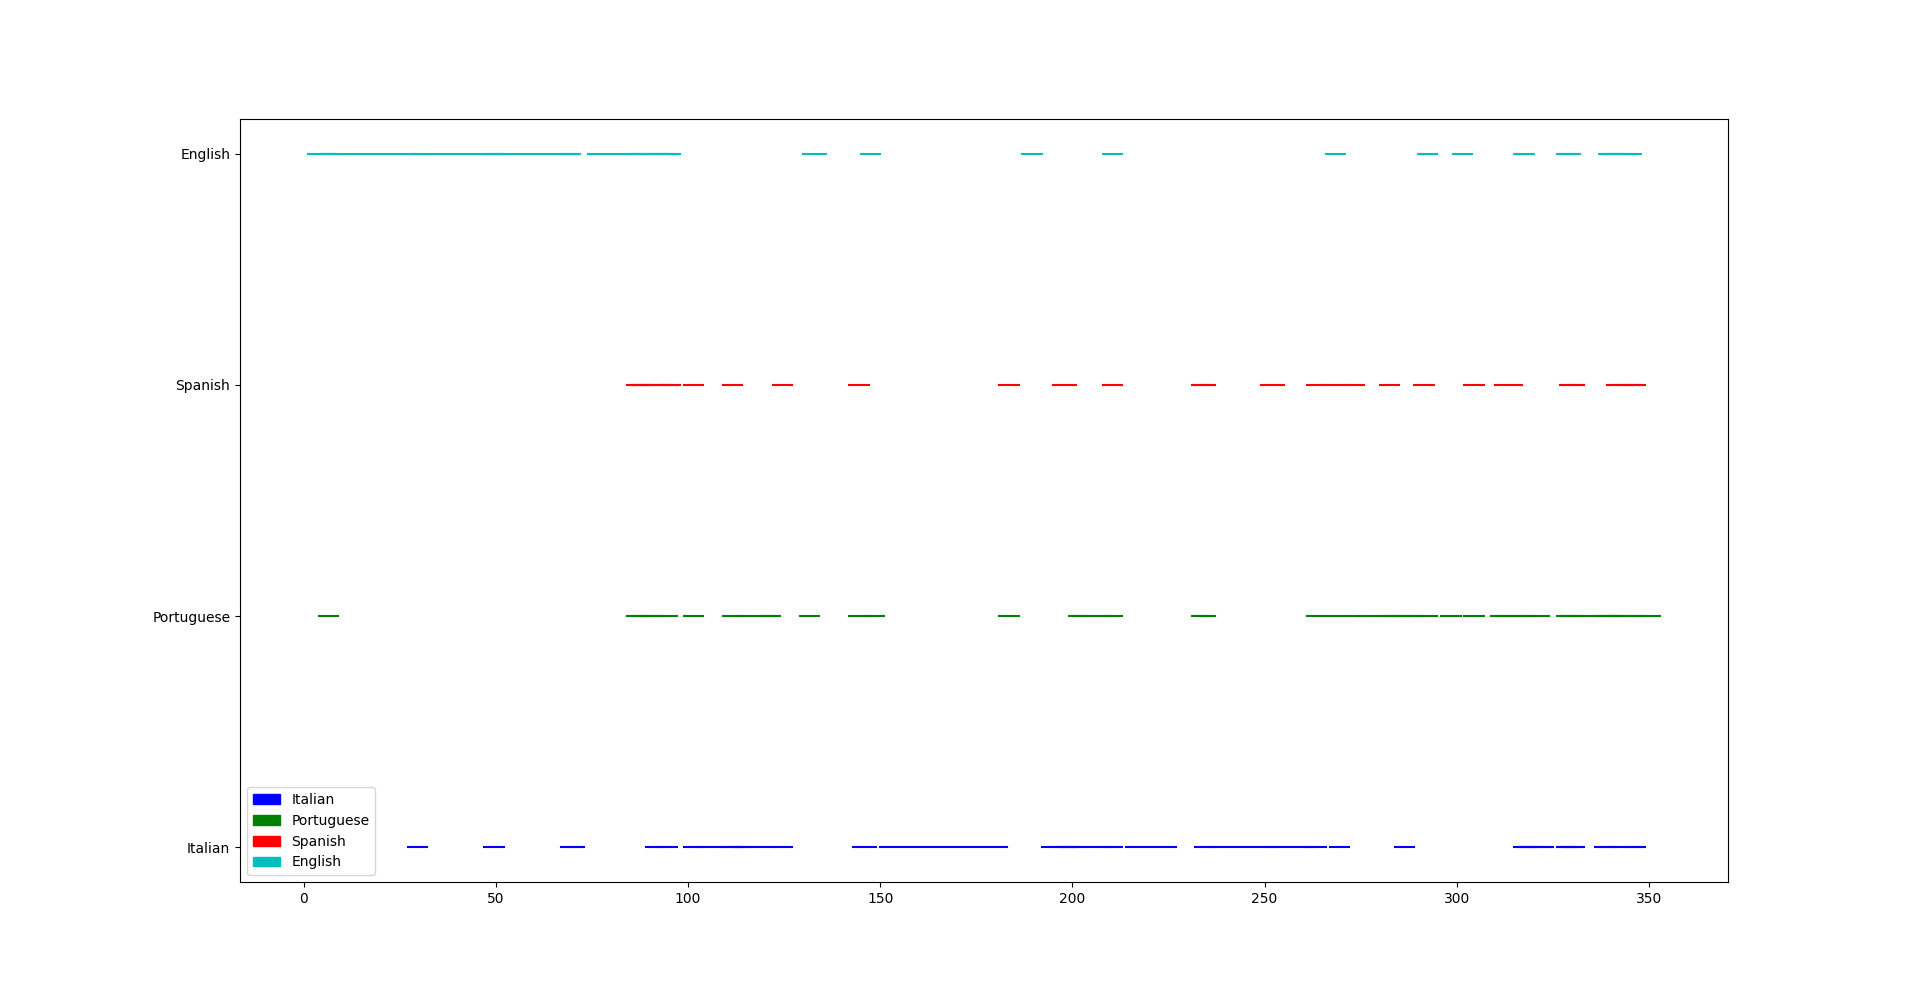
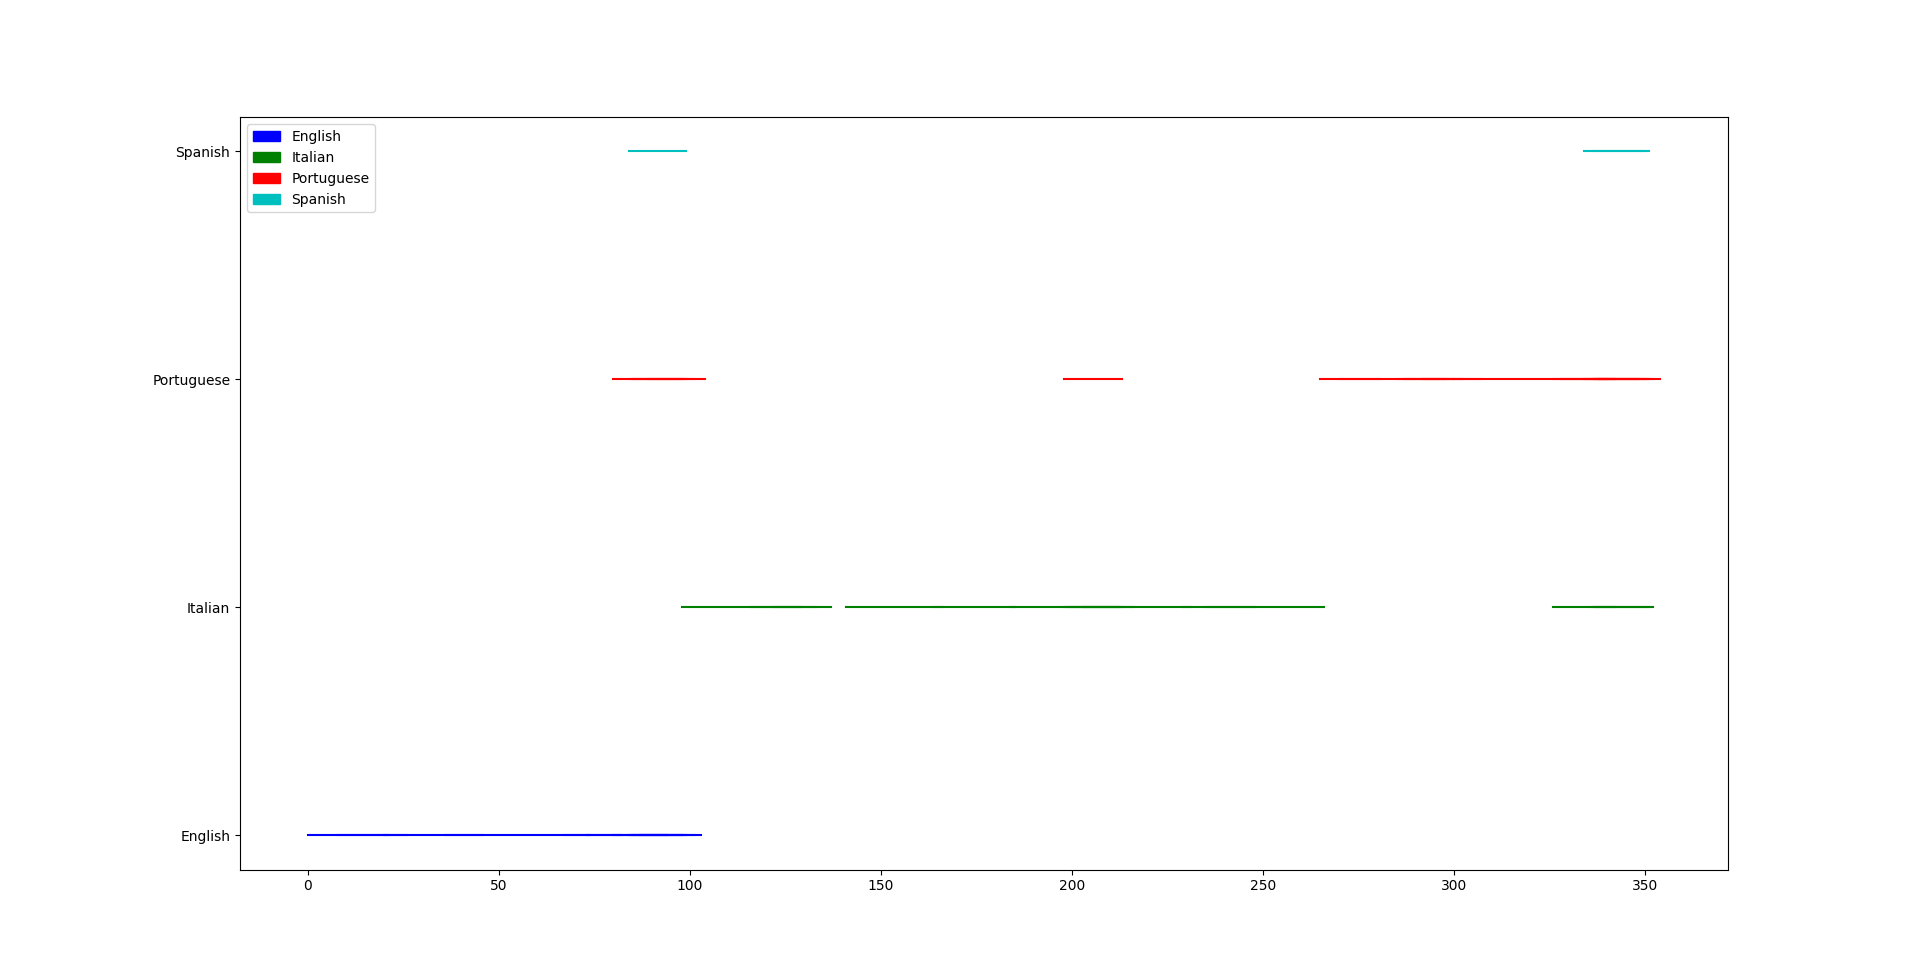
added graphs for window bits

diff --git a/src/locatelang.py b/src/locatelang.py
@@ -24,6 +24,7 @@ class LocateLang:
 		self.CHUNK_SIZE = 10_000
 		self.CHUNKS_THRESHOLD = 0.1
 		self.AVERAGE_THRESHOLD = 0.60
+		# TODO: adjust window size
 		self.WINDOW_SIZE = 5 * self.k
 
 		self.strategy = self.get_best_strategy()
@@ -66,10 +67,11 @@ class LocateLang:
 		return langs_bits, total_bits
 
 
-	def get_lang_below_threshold(self, text, thresholds):
+	def get_lang_below_threshold(self, text, thresholds, lang_y):
 		langs = []
 		for lang in self.langs:
 			average_bits = lang.bits_compress_target(text, calc_average=True)
+			lang_y[lang.lang_name].append(average_bits)
 			if average_bits <= thresholds[lang.lang_name]:
 				langs.append(lang.lang_name)
 		return langs
@@ -84,20 +86,21 @@ class LocateLang:
 			logging.error(f"Could not open file {self.target_filename}")
 			sys.exit(0)
 
-		# TODO: adjust window size
-		location_langs, target_text =\
-			defaultdict(lambda: []), f.read()
+		window_langs, target_text, lang_y =\
+			defaultdict(lambda: []), f.read(), defaultdict(lambda: [])
 
 		thresholds = {lang.lang_name: lang.fcm.entropy for lang in self.langs}
 
 		window = target_text[:self.WINDOW_SIZE]
 
 		for ind, next_char in enumerate(target_text[self.WINDOW_SIZE:]):
-			location_langs[(ind, ind + self.WINDOW_SIZE)] = self.get_lang_below_threshold(window, thresholds)
+			window_langs[(ind, ind + self.WINDOW_SIZE)] = self.get_lang_below_threshold(window, thresholds, lang_y)
 
 			window = window[1:] + next_char
 
-		return location_langs
+		x_pos = [end_pos for _, end_pos in window_langs.keys()]
+
+		return window_langs, x_pos, lang_y, thresholds
 
 
 	def compare_lang_averages(self):
@@ -108,7 +111,6 @@ class LocateLang:
 			logging.error(f"Could not open file {self.target_filename}")
 			sys.exit(0)
 		
-		# TODO: adjust window size
 		location_langs, window_langs, total_bits, target_text =\
 			defaultdict(lambda: []), {}, 0, f.read()
 
@@ -209,20 +211,25 @@ class LocateLang:
 		return final_location_langs
 	
 
-	def plot_results(self, x_pos=None, lang_y=None, average_bits=None, y_axis_lang_bits=None, final_location_langs={}):
+	def plot_results(self, x_pos=None, lang_y=None, average_bits=None, thresholds=None, y_axis_lang_bits=None, final_location_langs={}):
+		colors = list(mcolors.BASE_COLORS) + list(mcolors.CSS4_COLORS.values())
+		label_colors = {lang.lang_name: colors[i] for i, lang in enumerate(self.langs)}
+		
 		if x_pos:
 			for lang, y in lang_y.items():
-				plt.plot(x_pos, y, 'o', label=lang)
+				plt.plot(x_pos, y, 'o', label=f"{lang} Average Bits", color=label_colors[lang])
 
-			plt.plot(x_pos, [average_bits] * len(x_pos), label='Average Bits')
-			plt.plot(x_pos, [average_bits * (1 - self.AVERAGE_THRESHOLD)] * len(x_pos), label='Threshold')
+			if average_bits:
+				plt.plot(x_pos, [average_bits] * len(x_pos), label='Total Average Bits')
+				plt.plot(x_pos, [average_bits * (1 - self.AVERAGE_THRESHOLD)] * len(x_pos), label='Average Threshold')
+				plt.ylim(0, average_bits + 1)
+			elif thresholds:
+				[plt.plot(x_pos, [threshold] * len(x_pos), label=f"{lang_name} Threshold", color=label_colors[lang_name])\
+					for lang_name, threshold in thresholds.items()]
 
-			plt.ylim(0, average_bits + 1)
 			plt.legend()
 		else:
 			label_langs = {lang.lang_name: i for i, lang in enumerate(self.langs)}
-			colors = list(mcolors.BASE_COLORS) + list(mcolors.CSS4_COLORS.values())
-			label_colors = {lang.lang_name: colors[i] for i, lang in enumerate(self.langs)}
 			patches = [mpatches.Patch(color=color, label=lang_name) for lang_name, color in label_colors.items()]
 
 			if y_axis_lang_bits:
@@ -235,7 +242,7 @@ class LocateLang:
 						plt.plot(loc, [label_langs[lang]] * 2, color=label_colors[lang])
 			
 				plt.yticks(list(label_langs.values()), list(label_langs.keys()))
-			
+
 			plt.legend(handles=patches)
 		plt.show()
 
@@ -250,7 +257,8 @@ class LocateLang:
 			location_langs, y_axis_lang_bits = self.locate_chunks_lang()
 			self.plot_results(y_axis_lang_bits=y_axis_lang_bits)
 		else:
-			location_langs = self.locate_windows_lang()
+			location_langs, x_pos, lang_y, thresholds = self.locate_windows_lang()
+			self.plot_results(x_pos=x_pos, lang_y=lang_y, thresholds=thresholds)
 
 		if compare_langs:
 			avg_location_langs, x_pos, lang_y, average_bits = self.compare_lang_averages()

diff --git a/src/main.py b/src/main.py
@@ -56,7 +56,7 @@ class Main:
         arg_parser.add_argument('-d', nargs=1, default=[None])
         arg_parser.add_argument('-t', nargs=1, default=["./../datasets/languages_test/English.utf8"])
         arg_parser.add_argument('-k', nargs=1, type=int, default=[3])
-        arg_parser.add_argument('-a', nargs=1, type=float, default=[0.1])
+        arg_parser.add_argument('-a', nargs=1, type=float, default=[0.01])
         arg_parser.add_argument('-l', action='store_true')
         arg_parser.add_argument('-c', action='store_true')
 
